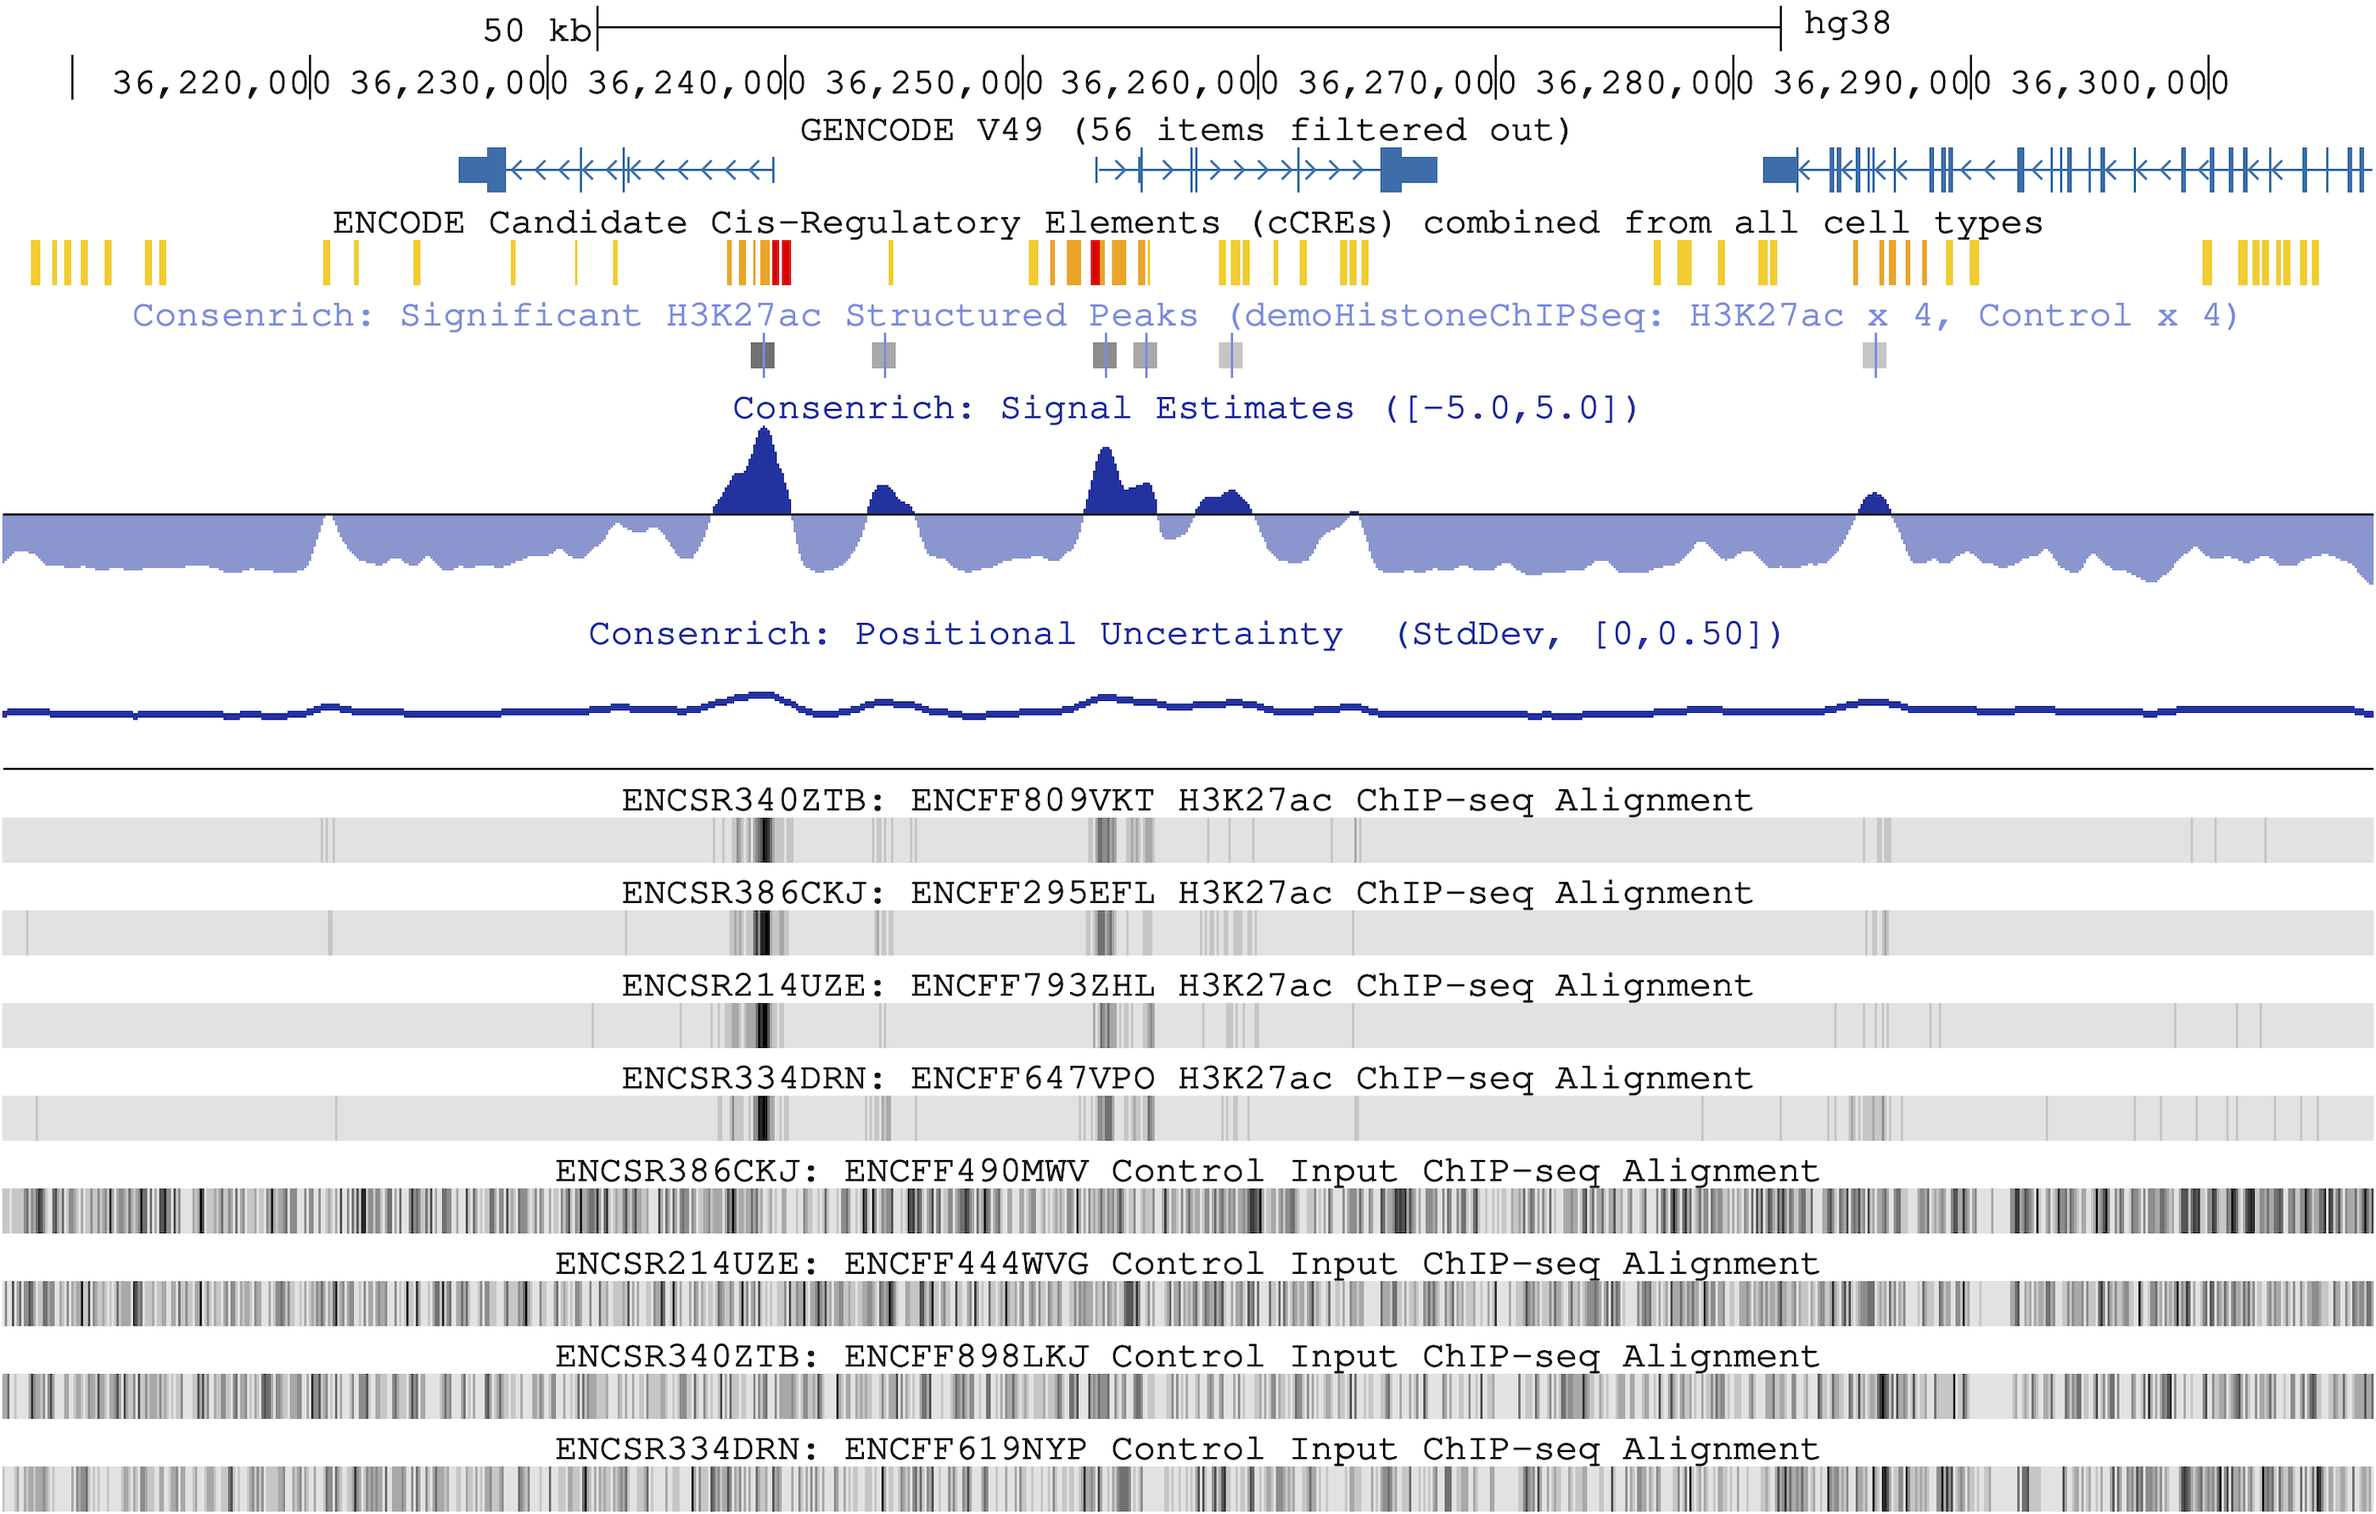
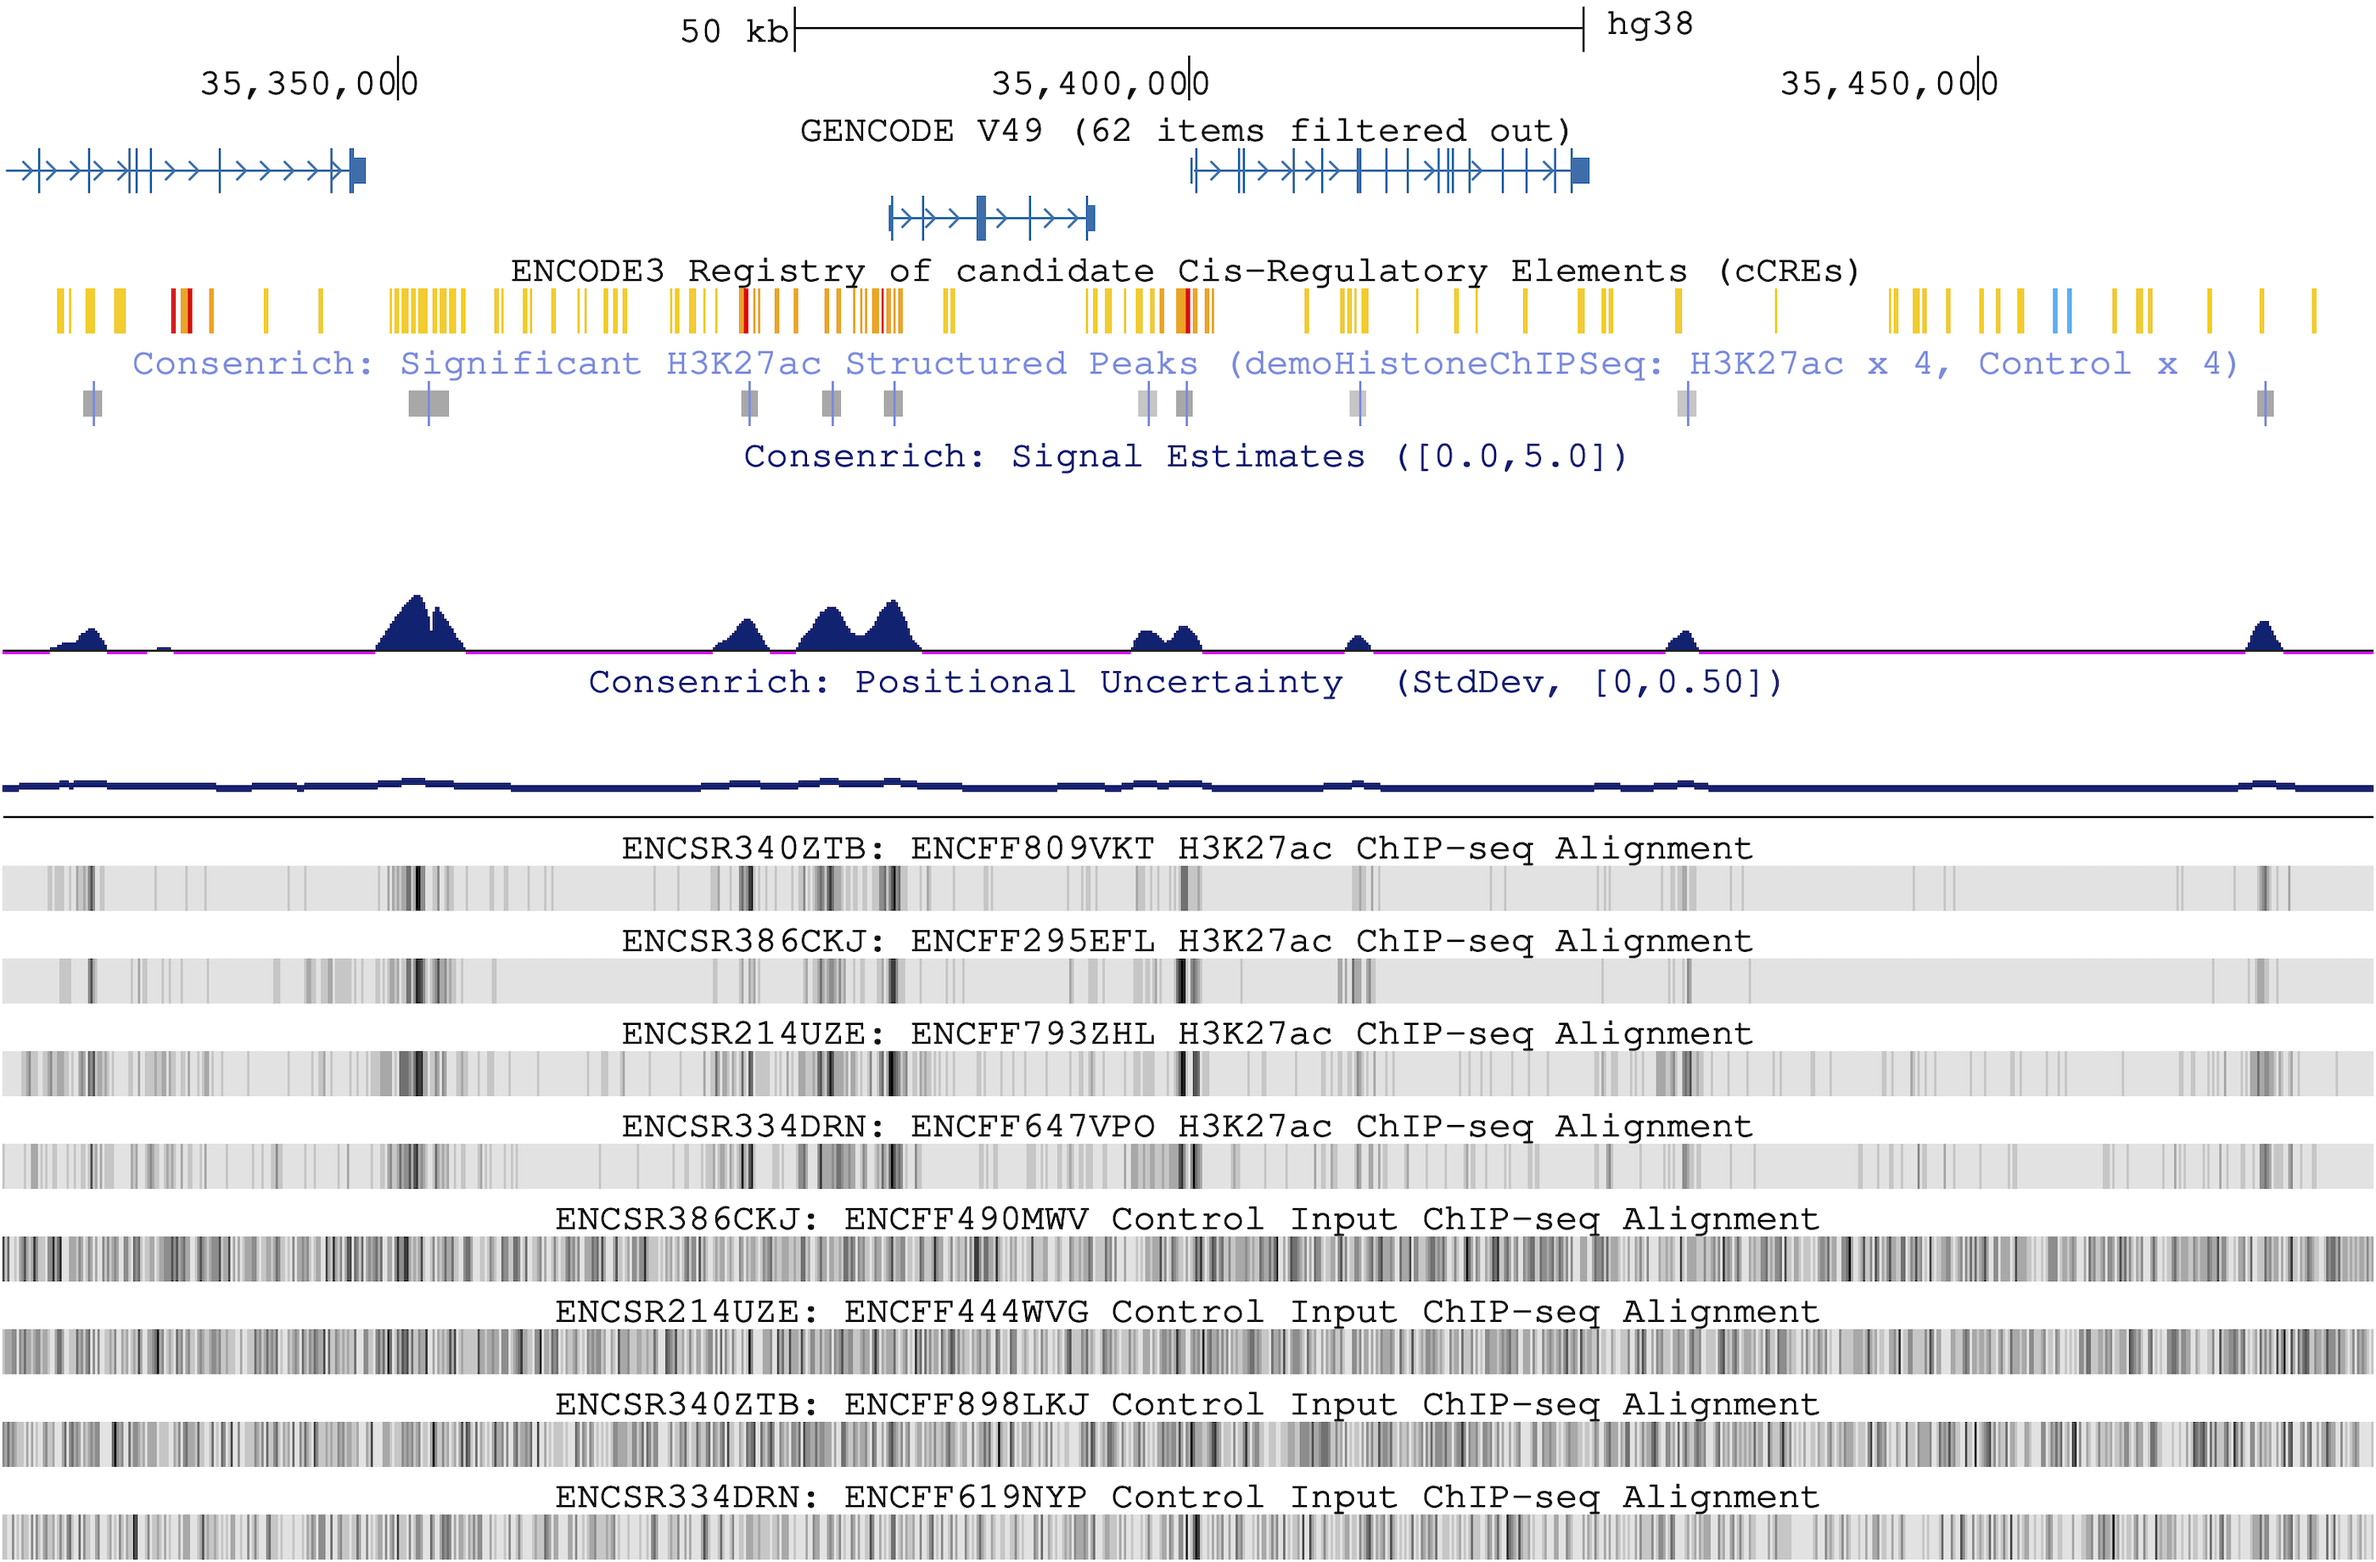
docs (#62)
* update browser shot

* Update examples.rst

diff --git a/docs/source/examples.rst b/docs/source/examples.rst
@@ -19,7 +19,7 @@ Getting Started: Minimal Example
     :caption: Getting Started
     :name: minimal
 
-A brief analysis using H3K27ac (narrow) ChIP-seq data is carried out for demonstration.
+A brief analysis using H3K27ac (narrow) ChIP-seq data generated from human tissue samples is carried out for demonstration.
 
 Input Data
 """""""""""""""""""""
@@ -79,7 +79,7 @@ Using a YAML Configuration file
    Refer to the ``<process,observation,etc.>Params`` classes in module in the :ref:`API` for complete documentation of configuration options.
 
 
-Copy and paste the following YAML into a file named ``demoHistoneChIPSeq.yaml``. For a quick trial run (:math:`\approx` 1 minute), you can restrict analysis to a subset of chromosomes: To reproduce the results shown in the browser snapshot, add ``genomeParams.chromosomes: [chr21, chr22]`` to the configuration file.
+Copy and paste the following YAML into a file named ``demoHistoneChIPSeq.yaml``:
 
 .. code-block:: yaml
   :name: demoHistoneChIPSeq.yaml
@@ -99,8 +99,8 @@ Copy and paste the following YAML into a file named ``demoHistoneChIPSeq.yaml``.
   ENCFF490MWV.bam]
 
   # Optional: call 'structured peaks' via `consenrich.matching`
-  matchingParams.templateNames: [haar, haar, db2, db2]
-  matchingParams.cascadeLevels: [1,2,1,2]
+  matchingParams.templateNames: [haar, haar, db2, db2, sym3, sym3]
+  matchingParams.cascadeLevels: [1,2,1,2,1,2]
 
 
 .. admonition:: Control Inputs
@@ -120,7 +120,7 @@ Run Consenrich
 Results
 """"""""""""""""""""""""""
 
-* We display Consenrich results (blue) over a 100 kb locus in human chromosome 22
+* We display Consenrich results (blue) over a 150 kb locus in human chromosome 22
 
 
 .. image:: ../images/ConsenrichIGVdemoHistoneChIPSeq.png
